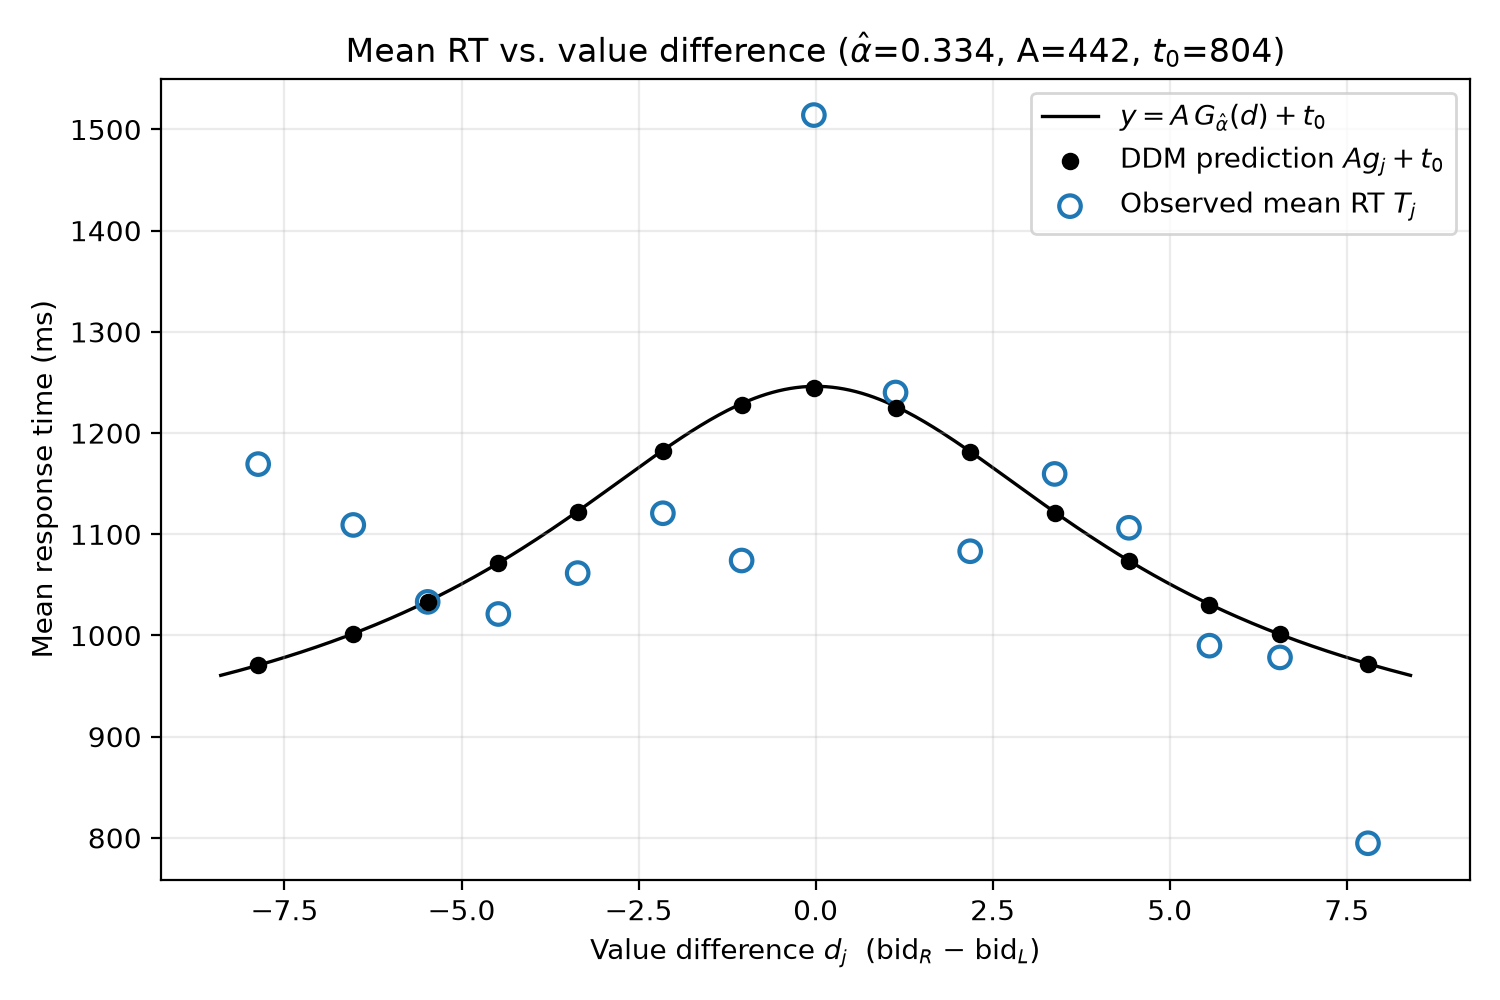
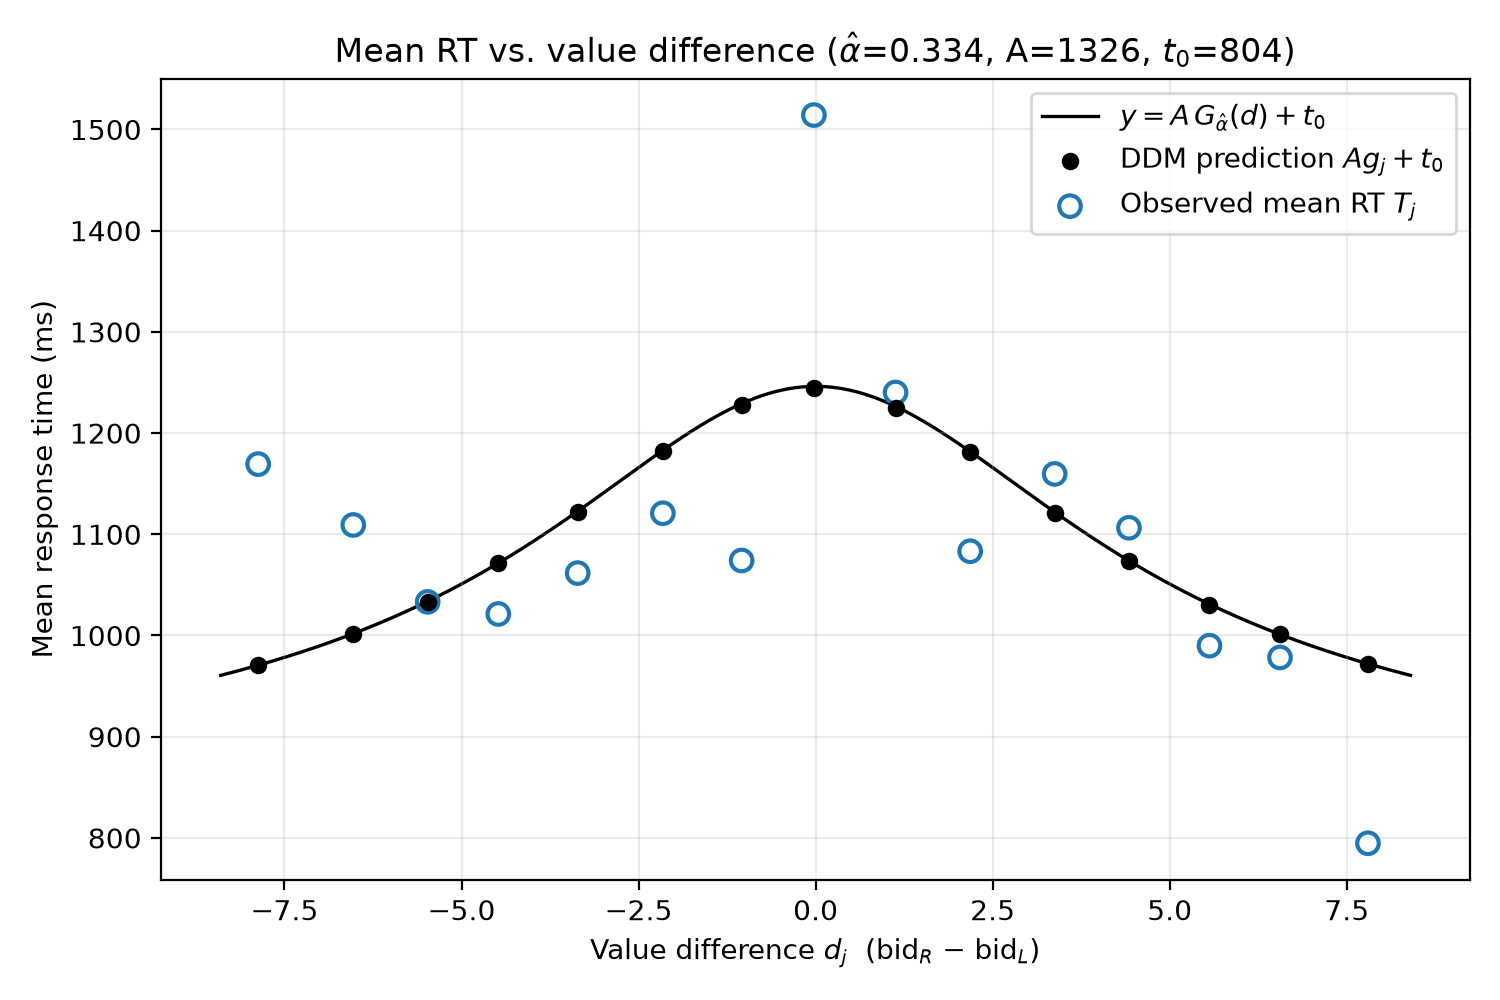
minor fixes to G_alpha

Changed region(s): [[0.2147, 0.031, 0.8587, 0.062]]

diff --git a/CogMech_Experiment1_Q3.py b/CogMech_Experiment1_Q3.py
@@ -16,11 +16,11 @@ assert len(pop) == 15
 def P(alpha, x):                                       # P_alpha(x) = 1/(1+exp(-2 alpha x))
     return 1.0 / (1.0 + np.exp(-2.0 * alpha * x))
 
-def G(alpha, x):                                       # tanh(mu)/mu, mu = alpha*x  (=1 at x=0)
-    mu = alpha * np.asarray(x, dtype=float)
-    out = np.ones_like(mu)
-    nz = np.abs(mu) > 1e-9
-    out[nz] = np.tanh(mu[nz]) / mu[nz]
+def G(alpha, x):                                       # tanh(alpha*x)/x  (= alpha at x=0)
+    x = np.asarray(x, dtype=float)
+    out = np.full_like(x, alpha)                       # limit as x -> 0 is alpha
+    nz = np.abs(x) > 1e-9
+    out[nz] = np.tanh(alpha * x[nz]) / x[nz]
     return out
 
 # ---------------- 3(a): MLE of alpha with Delta_i := d_j for every trial in bin j ----------------

diff --git a/CogMech_Experiment1_Q1_2.py b/CogMech_Experiment1_Q1_2.py
@@ -118,11 +118,11 @@ print(f"RMSE(p_j - e_j) = {np.sqrt(np.mean((tab['p_j'] - tab['e_j']) ** 2)):.3f}
 # ======================= Question 2: response times =======================
 # DDM mean decision time (barriers +/-1, drift mu = alpha*Delta, unit noise):
 #   E[T] = tanh(mu)/mu  =: G_alpha(Delta)   (-> 1 as Delta -> 0);  predicted RT = A*G + t0
-def G(alpha, x):
-    mu = alpha * np.asarray(x, dtype=float)
-    out = np.ones_like(mu)
-    nz = np.abs(mu) > 1e-9
-    out[nz] = np.tanh(mu[nz]) / mu[nz]
+def G(alpha, x):                                       # tanh(alpha*x)/x  (= alpha at x=0)
+    x = np.asarray(x, dtype=float)
+    out = np.full_like(x, alpha)                       # limit as x -> 0 is alpha
+    nz = np.abs(x) > 1e-9
+    out[nz] = np.tanh(alpha * x[nz]) / x[nz]
     return out
 
 
